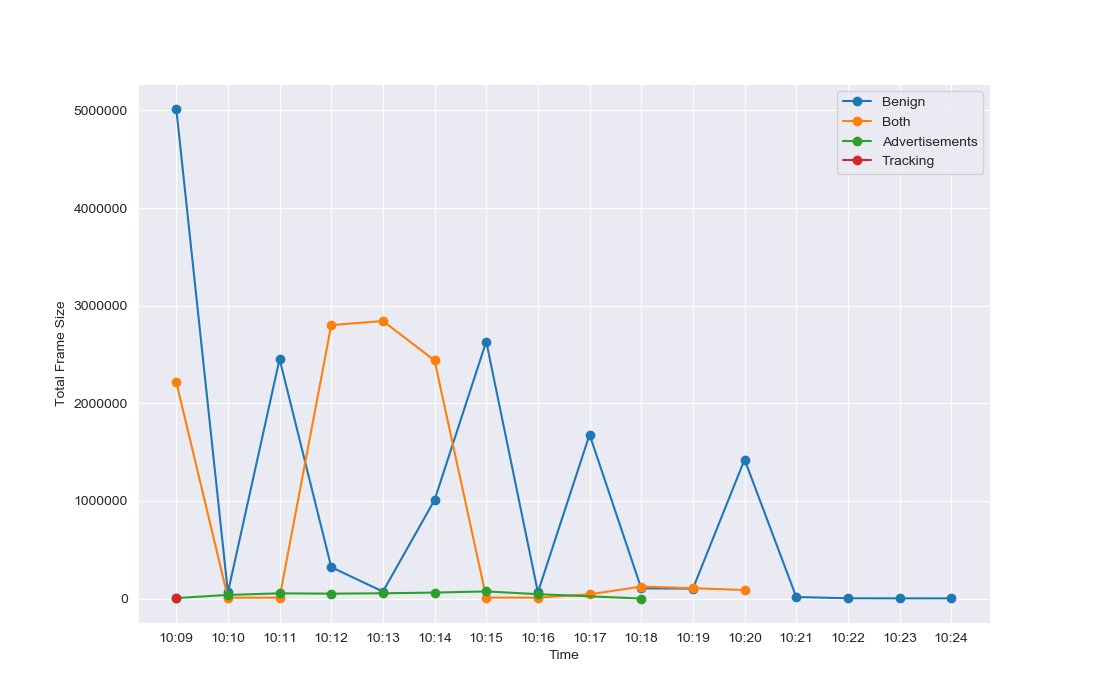
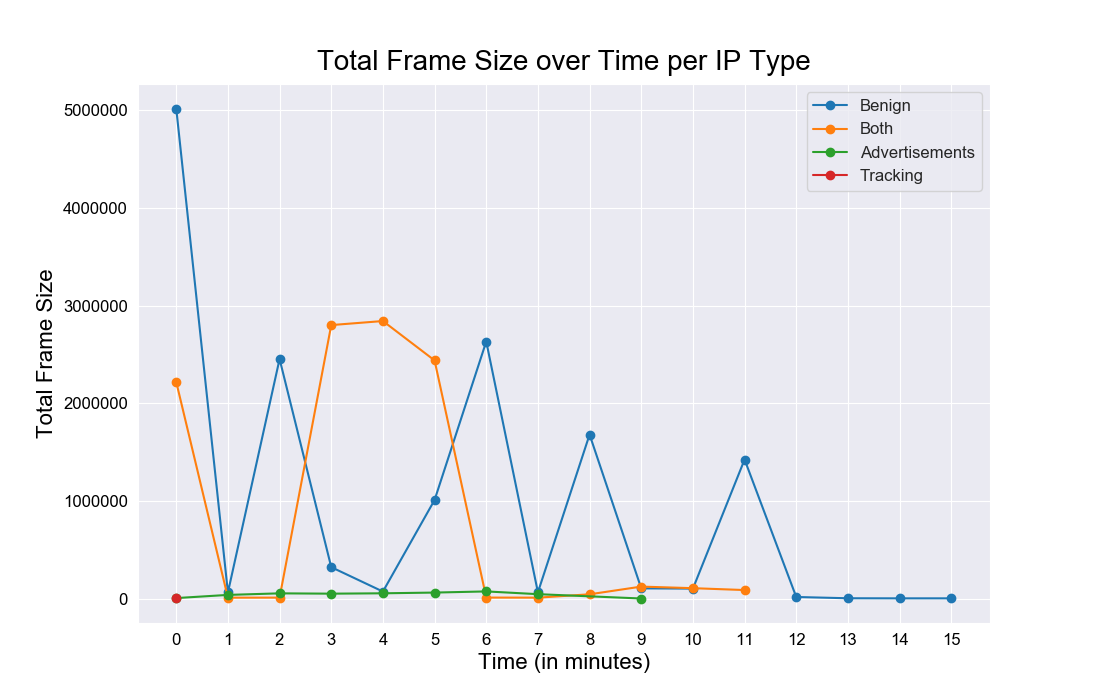
made the time graphs look better - titles and labels and stuff

diff --git a/pandas_analysis.py b/pandas_analysis.py
@@ -38,19 +38,22 @@ def frames_over_time(path, sheet):
         ax.plot(both["Time"], both["Both"], '-o')
         ax.plot(ads["Time"], ads["Advertisements"], '-o')
         ax.plot(tracking["Time"], tracking["Tracking"], '-o')
-        ax.set_xticklabels(benign["Time"])
-        plt.xticks(np.arange(len(benign["Time"])))
-        plt.xlabel("Time")
-        plt.ylabel("Total Frame Size")
-        plt.legend()
+        ax.set_xticklabels(range(0,16))
+        # ax.set_zticklabels(benign["Time"])
+        plt.xticks(np.arange(len(benign["Time"])), **label_font)
+        plt.yticks(**label_font)
+        plt.title("Total Frame Size over Time per IP Type", **title_font)
+        plt.xlabel("Time (in minutes)", **axis_font)
+        plt.ylabel("Total Frame Size", **axis_font)
+        plt.legend(fontsize=12)
 
     create_graph(to_phone)
     plt.savefig("./graphs/to_phone_(" + sheet + ").png")
-    plt.show()
+    # plt.show()
 
     create_graph(from_phone)
     plt.savefig("./graphs/from_phone_(" + sheet + ").png")
-    plt.show()
+    # plt.show()
 
 
 def graph_ad_ips(path):
@@ -72,7 +75,7 @@ def graph_ad_ips(path):
     plt.ylabel("Number of Applications", **axis_font)
     plt.legend(loc=1, fontsize=12)
     plt.savefig("./graphs/num_ad_ips.png")
-    plt.show()
+    # plt.show()
 
 
 # graph_ad_ips("./results/Android9.0/android_combined_results.xlsx")
@@ -83,9 +86,12 @@ frames_over_time("./results/Android9.0/android_combined_results.xlsx",
 frames_over_time("./results/Android9.0/android_combined_results.xlsx",
                  "com.snow.drift.apk.pcap")
 
-# df = p.read_excel("./results/Android9.0/Pandas Datasets/summary.xlsx", index_col=None)
+# frames_over_time(
+#     "./results/Android9.0/Pandas Datasets/largest_ad_traffic(io.voodo.crowdcity).xlsx", "Sheet1")
 
-# print("Max ad traffic...")
-# print(df[df["Ad Traffic Size"] == df["Ad Traffic Size"].max()])
-# print("Max ad ips...")
-# print(df[df["Ad IPs"] == df["Ad IPs"].max()])
+df = p.read_excel("./results/Android9.0/Pandas Datasets/summary.xlsx", index_col=None)
+
+print("Max ad traffic...")
+print(df[df["Ad Traffic Size"] == df["Ad Traffic Size"].max()])
+print("Max ad ips...")
+print(df[df["Ad IPs"] == df["Ad IPs"].max()])
